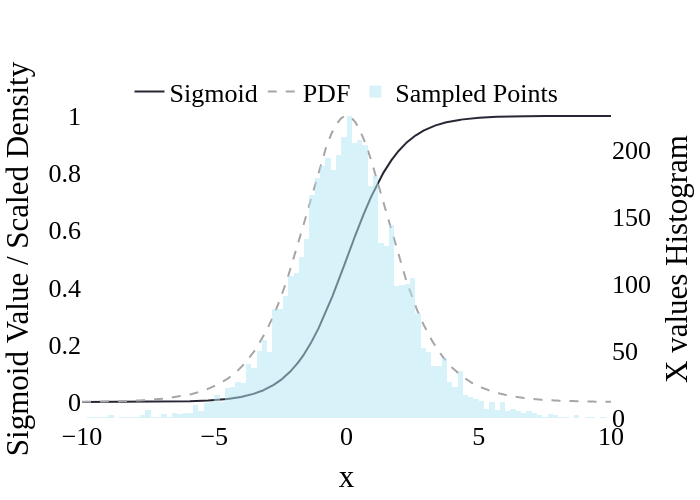
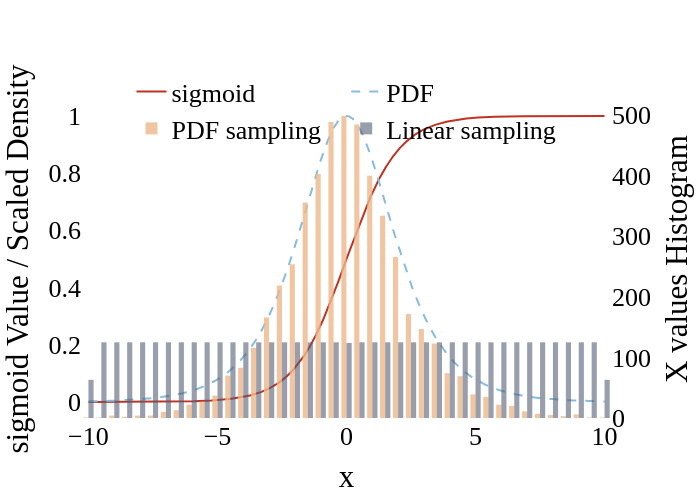
tralala

diff --git a/src/dataset_generation/math/func.py b/src/dataset_generation/math/func.py
@@ -10,18 +10,13 @@ from scipy.interpolate import interp1d
 import plotly.graph_objects as go
 
 from cfg import ASSETS, DATASET_PARSED
-
+from numpy.polynomial import Polynomial
 
 FONT_FAMILY = "Times New Roman"
 SAMPLES = 5000
-LOW = -10
-HIGH = 10
+LOW = -2
+HIGH = 2
 
-def remove_decimals(x, y, dec_num = 4):
-    x = [round(x, dec_num) for x in x]
-    y = [round(x, dec_num) for x in y]
-
-    return x, y
 
 def sigmoid(x):
     return 1 / (1 + np.exp(-x))
@@ -29,20 +24,34 @@ def sigmoid(x):
 def sigmoid_derivative(x):
     return sigmoid(x) * (1 - sigmoid(x))
 
-def sigmoid_values():
-    x = np.linspace(LOW, HIGH, SAMPLES)
-    y = [sigmoid(x) for x in x]
-    
+THE_FUNC = np.cosh
+DF = np.sinh
+
+def remove_decimals(x, y, dec_num = 4):
+    x = [round(x, dec_num) for x in x]
+    y = [round(x, dec_num) for x in y]
+
     return x, y
 
-def sigmoid_values_sampled(x):
-    derivative_values = sigmoid_derivative(x)
+def func(x):
+    return THE_FUNC(x)
 
-    power = 0.8
-    pdf = np.power(derivative_values, power)
+def derivative(x):
+    return DF(x)
+
+def func_values():
+    x = np.linspace(LOW, HIGH, SAMPLES)
+    y = func(x)
+    return x, y
+
+def func_values_sampled(x):
+    derivative_values = derivative(x)
+
+    power = 0.7
+    pdf = np.power(abs(derivative_values), power)
     pdf /= np.sum(pdf * np.diff(x)[0])
     
-    mix_ratio = 0.5
+    mix_ratio = 0.1
     uniform_pdf = np.ones_like(pdf) / len(pdf)
     adjusted_pdf = (1 - mix_ratio) * pdf + mix_ratio * uniform_pdf
     adjusted_pdf /= np.sum(adjusted_pdf * np.diff(x)[0])
@@ -54,23 +63,26 @@ def sigmoid_values_sampled(x):
     sampled_x_values = inverse_cdf(uniform_random_samples)
     sampled_x_values = np.sort(sampled_x_values)
     
-    y = [sigmoid(x) for x in sampled_x_values]
-    y_orig = [sigmoid(x) for x in x]
+    y = [func(x) for x in sampled_x_values]
+    y_orig = [func(x) for x in x]
     
     scale_factor_pdf = max(y) / max(pdf)
 
     fig_combined = go.Figure()
+    
+    NATURE = ['#C03221', '#87BCDE', '#EDB88B', '#545E75', '#3F826D', '#88498F']
 
-    fig_combined.add_trace(go.Scatter(x=x, y=y_orig, mode='lines', name='Sigmoid', line=dict(color='#272635')))
-    fig_combined.add_trace(go.Scatter(x=x, y=pdf * scale_factor_pdf, mode='lines', name='PDF', line=dict(color='#A6A6A8', dash='dash')))
-    fig_combined.add_trace(go.Histogram(x=sampled_x_values, nbinsx=100, name='Sampled Points', opacity=0.5, marker_color='#B1E5F2', yaxis='y2'))
+    fig_combined.add_trace(go.Scatter(x=x, y=y_orig, mode='lines', name=THE_FUNC.__name__, line=dict(color=NATURE[0])))
+    fig_combined.add_trace(go.Scatter(x=x, y=pdf * scale_factor_pdf, mode='lines', name='PDF', line=dict(color=NATURE[1], dash='dash')))
+    fig_combined.add_trace(go.Histogram(x=sampled_x_values, nbinsx=100, name='PDF sampling', opacity=0.8, marker_color=NATURE[2], yaxis='y2'))
+    fig_combined.add_trace(go.Histogram(x=x, nbinsx=100, name='Linear sampling', opacity=0.6, marker_color=NATURE[3], yaxis='y2'))
 
     fig_combined.update_layout(
         paper_bgcolor='rgba(0,0,0,0)',
         plot_bgcolor='rgba(0,0,0,0)',
         xaxis_title='x',
         yaxis=dict(
-            title='Sigmoid Value / Scaled Density',
+            title=f'{THE_FUNC.__name__} Value / Scaled Density',
             side='left',
             showgrid=False
         ),
@@ -91,23 +103,23 @@ def sigmoid_values_sampled(x):
 
     fig_combined.show()
     os.makedirs(f"{ASSETS}/math_functions/", exist_ok=True)
-    fig_combined.write_image(f"{ASSETS}/math_functions/sigmoid.png")
+    fig_combined.write_image(f"{ASSETS}/math_functions/{THE_FUNC.__name__}.png")
 
     
     return sampled_x_values, y
 
-def sigmoid_values_with_noise(x):
+def func_values_with_noise(x):
     noise = np.random.uniform(-0.0005, 0.0005, SAMPLES)
     x_noise = x + noise
-    y_noise = [sigmoid(x) for x in x_noise]
+    y_noise = [func(x) for x in x_noise]
 
     return x_noise ,y_noise
 
 
 def main():
-    x, y = sigmoid_values()
-    x_sampled, y_sampled = sigmoid_values_sampled(x)
-    x_noise, y_noise = sigmoid_values_with_noise(x)
+    x, y = func_values()
+    x_sampled, y_sampled = func_values_sampled(x)
+    x_noise, y_noise = func_values_with_noise(x)
     
     x, y = remove_decimals(x, y)
     x_sampled, y_sampled = remove_decimals(x_sampled, y_sampled)
@@ -118,7 +130,7 @@ def main():
     df_noise = pd.DataFrame({'source_text': x_noise, 'target_text': y_noise})
 
     # df.to_csv(f"{DATASET_PARSED}/mbtcp-sigmoid-simple-c0-s{SAMPLES}.csv", index=False)
-    df_sampled.to_csv(f"{DATASET_PARSED}/mbtcp-sigmoid-sampled3-c0-s{SAMPLES}.csv", index=False)
+    # df_sampled.to_csv(f"{DATASET_PARSED}/mbtcp-sigmoid-sampled3-c0-s{SAMPLES}.csv", index=False)
     # df_noise.to_csv(f"{DATASET_PARSED}/mbtcp-sigmoid-noise-c0-s{SAMPLES}-test.csv", index=False)
 
 

diff --git a/src/plots/from_csv.py b/src/plots/from_csv.py
@@ -58,19 +58,19 @@ class Plots:
             config = cfg.read()
             config = json.loads(config)
             finetuner_model = FinetunerModel(**config)
-            finetuner_model.experiment = f"{experiment}"
+            finetuner_model.experiment = f"{experiment}.old"
 
             return finetuner_model
 
     def accuracy_with_random_dataset(self):
         dfs = pd.DataFrame()
         for index, dataset in enumerate(self._finetuner.datasets):
-            start_datetime = glob.glob(f"{CHECKPOINTS}/{self._finetuner.experiment}/{dataset}")[0]
-            if not os.path.exists(f"{CHECKPOINTS}/{self._finetuner.experiment}/{start_datetime}/metrics.csv"):
+            the_dir  = f"{CHECKPOINTS}/{self._finetuner.experiment}/{dataset}"
+            start_datetime_path = [name for name in os.listdir(the_dir) if os.path.isdir(os.path.join(the_dir, name))][0]
+            if not os.path.exists(f"{CHECKPOINTS}/{self._finetuner.experiment}/{dataset}/{start_datetime_path}/metrics2.csv"):
                 continue
 
-            df = pd.read_csv(f"{CHECKPOINTS}/{self._finetuner.experiment}/{start_datetime}/metrics.csv")
-            assert dataset.server is not None
+            df = pd.read_csv(f"{CHECKPOINTS}/{self._finetuner.experiment}/{dataset}/{start_datetime_path}/metrics2.csv")
             df.loc[:, 'test_dataset'] = dataset.server.coils
             df.loc[:, 'server_cfg'] = df['test_dataset'].apply(lambda x: "same" if x == 40 else "different")
             df.loc[:, 'size'] = df['dataset'].apply(lambda x: f"{x.split('-')[3]}")
@@ -79,15 +79,16 @@ class Plots:
 
         for metric in self._test_metrics:
             validation_type = metric.split("/")[1]
+            df = dfs.query(f"functions == '1_5_15_3_6_16'")
             fig = px.bar(df, x='size', y=metric, color='server_cfg', barmode='group',
-                            color_discrete_sequence=['darkgreen', 'purple'])
+                            color_discrete_sequence=['#EDB88B', '#545E75'])
 
             fig.update_layout(
                 barmode='group',
                 # title=f'Protocol: {self._protocol}, Model: {self._finetuner.model_name}, Validation: {validation_type}',
-                title_font_size=28,
+                # title_font_size=28,
                 xaxis_title='Model Version',
-                yaxis_title='Accuracy',
+                yaxis_title='BCA' if validation_type == 'exact' else 'PVA',
                 paper_bgcolor='rgba(0,0,0,0)',
                 plot_bgcolor='rgba(0,0,0,0)',
                 margin=dict(l=0, r=0, b=0, t=60, pad=0),
@@ -103,16 +104,15 @@ class Plots:
 
     def accuracy_per_epoch(self):
         dfs = pd.DataFrame()
+        colors = {dataset.size: NATURE[i] for i, dataset in enumerate(self._finetuner.datasets)}
         for dataset in self._finetuner.datasets:
-            # colors = {dataset.server.__str__(): NATURE[i] for i, dataset in enumerate(self._finetuner.datasets)}
-            colors = {dataset.size: NATURE[i] for i, dataset in enumerate(self._finetuner.datasets)}
             start_datetime_path = os.listdir(f"{CHECKPOINTS}/{self._finetuner.experiment}/{dataset}")[0]
             if not os.path.exists(f"{CHECKPOINTS}/{self._finetuner.experiment}/{dataset}/{start_datetime_path}/metrics.csv"):
                 continue
 
             df = pd.read_csv(f"{CHECKPOINTS}/{self._finetuner.experiment}/{dataset}/{start_datetime_path}/metrics.csv")
             df.drop(columns=['csv-val_loss_step', 'csv-val_loss_epoch', 'csv-train_loss_step', 'csv-train_loss_epoch'], inplace=True)
-            # df.dropna(subset=["csv-accuracy/validator", "csv-accuracy/exact"], inplace=True)
+            df.dropna(subset=["csv-accuracy/validator", "csv-accuracy/exact"], inplace=True)
             df.loc[:, 'dataset'] = dataset.__str__()
             dfs = pd.concat([dfs, df])
 
@@ -239,12 +239,12 @@ class Plots:
 
 
 if __name__ == '__main__':
-    # plot = Plots("mbtcp-protocol-test.json")
-    # plot.accuracy_with_random_dataset()
+    plot = Plots("mbtcp-protocol-test.json")
+    plot.accuracy_with_random_dataset()
 
-    plot = Plots("s7comm-protocol-emulation.json")
-    plot.accuracy_per_epoch()
-    plot.loss_per_epoch()
+    # plot = Plots("s7comm-protocol-emulation.json")
+    # plot.accuracy_per_epoch()
+    # plot.loss_per_epoch()
     # plot.barchart_best_accuracy_of_each()
 
     # plot = Plots("mbtcp-protocol-emulation.json")

diff --git a/src/dataset_generation/math/funknown_func.py b/src/dataset_generation/math/funknown_func.py
@@ -1,0 +1,39 @@
+import numpy as np
+from scipy.interpolate import interp1d
+import plotly.graph_objects as go
+
+# Example data
+x = np.linspace(0, 10, 50)
+y = np.sin(x) + np.log(x + 1)
+
+# Compute the derivative
+dydx = np.gradient(y, x)
+
+# Determine where the derivatives are large
+threshold = np.percentile(np.abs(dydx), 75)  # Example: 75th percentile
+high_change_indices = np.where(np.abs(dydx) > threshold)[0]
+
+# Generate new sample points in these high-change regions
+new_x_points = []
+for idx in high_change_indices:
+    if idx < len(x) - 1:
+        new_x_points.extend(np.linspace(x[idx], x[idx + 1], 5))  # Adding 5 points between samples
+
+# Interpolate to find new y values at these x points
+f = interp1d(x, y, kind='cubic')
+new_y_points = f(new_x_points)
+
+# Create Plotly plot
+fig = go.Figure()
+
+# Original data points
+fig.add_trace(go.Scatter(x=x, y=y, mode='lines+markers', name='Original Points', marker=dict(color='blue')))
+
+# Newly interpolated points
+fig.add_trace(go.Scatter(x=new_x_points, y=new_y_points, mode='markers', name='New Points', marker=dict(color='red')))
+
+fig.update_layout(title='Data Points and Interpolated Points in Regions of Rapid Change',
+                  xaxis_title='X',
+                  yaxis_title='Y',
+                  legend_title='Legend')
+fig.show()

diff --git a/src/finetune/finetuner.py b/src/finetune/finetuner.py
@@ -131,8 +131,8 @@ class Finetuner:
                               accelerator=self._finetuner_model.accelerator,
                               devices=self._finetuner_model.devices,
                               strategy="ddp")
-            if os.path.exists(f"{CHECKPOINTS}/{self._finetuner_model.experiment}/{self._finetuner_model.current_dataset}"):
-                trainer.fit(self._custom_module, self._data_module,
-                            ckpt_path=f"{CHECKPOINTS}/{self._finetuner_model.experiment}/{self._finetuner_model.current_dataset}/{self._finetuner_model.start_datetime}/checkpoints/last.ckpt")
-            else:
-                trainer.fit(self._custom_module, self._data_module)
+            # if os.path.exists(f"{CHECKPOINTS}/{self._finetuner_model.experiment}/{self._finetuner_model.current_dataset}"):
+            #     trainer.fit(self._custom_module, self._data_module,
+            #                 ckpt_path=f"{CHECKPOINTS}/{self._finetuner_model.experiment}/{self._finetuner_model.current_dataset}/{self._finetuner_model.start_datetime}/checkpoints/last.ckpt")
+            # else:
+            trainer.fit(self._custom_module, self._data_module)
